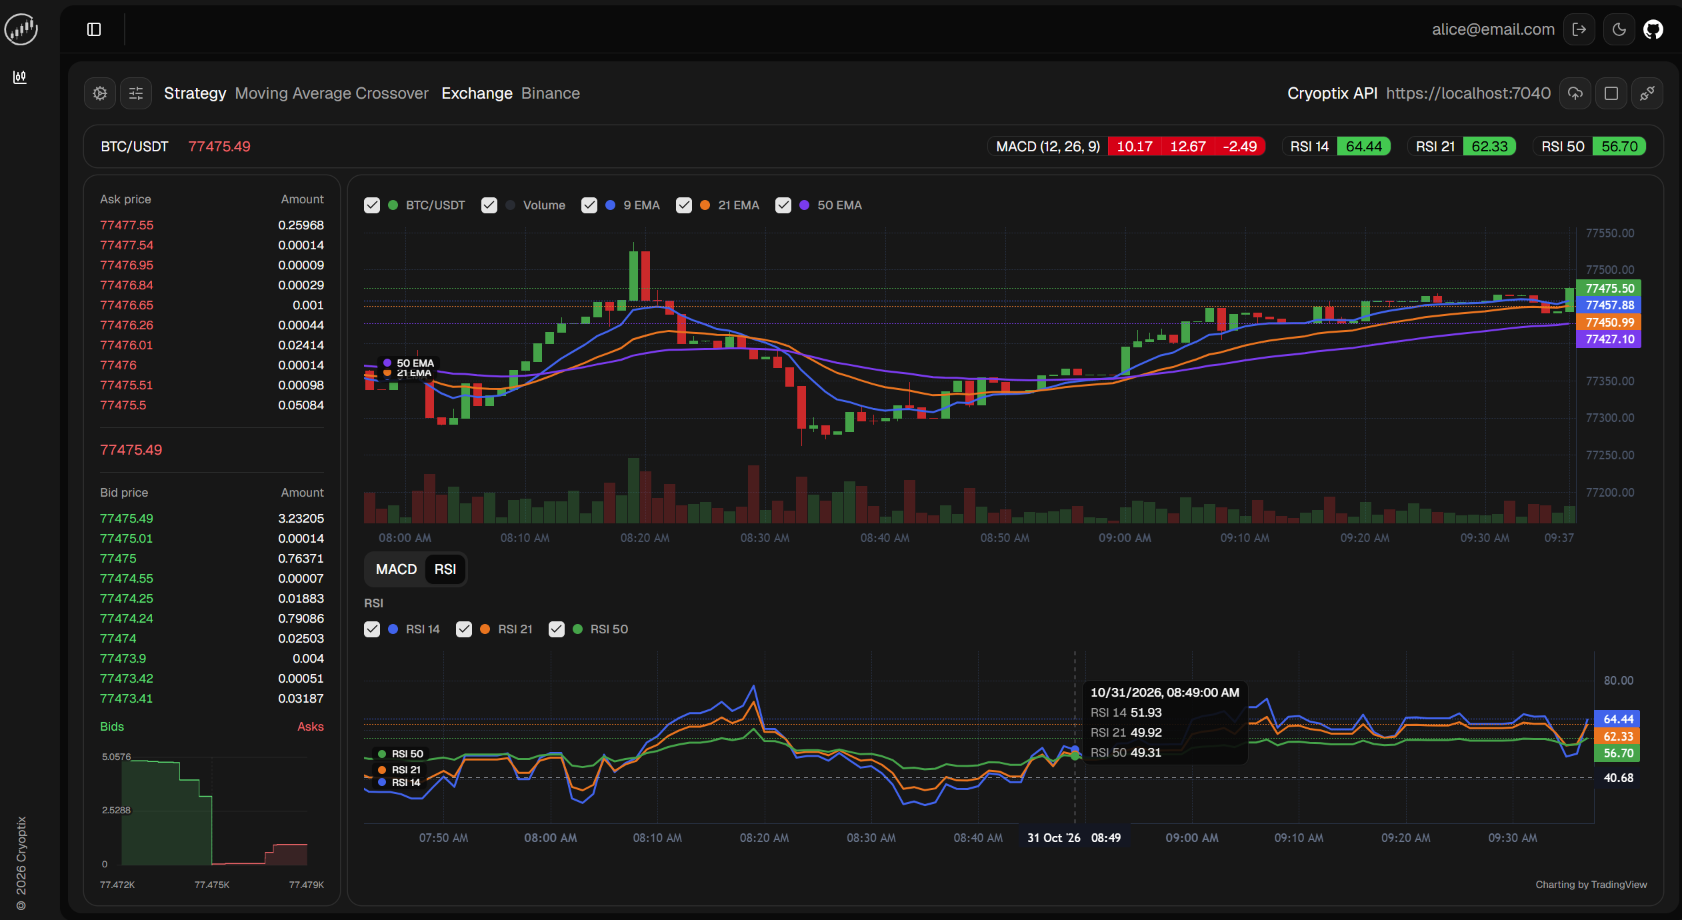
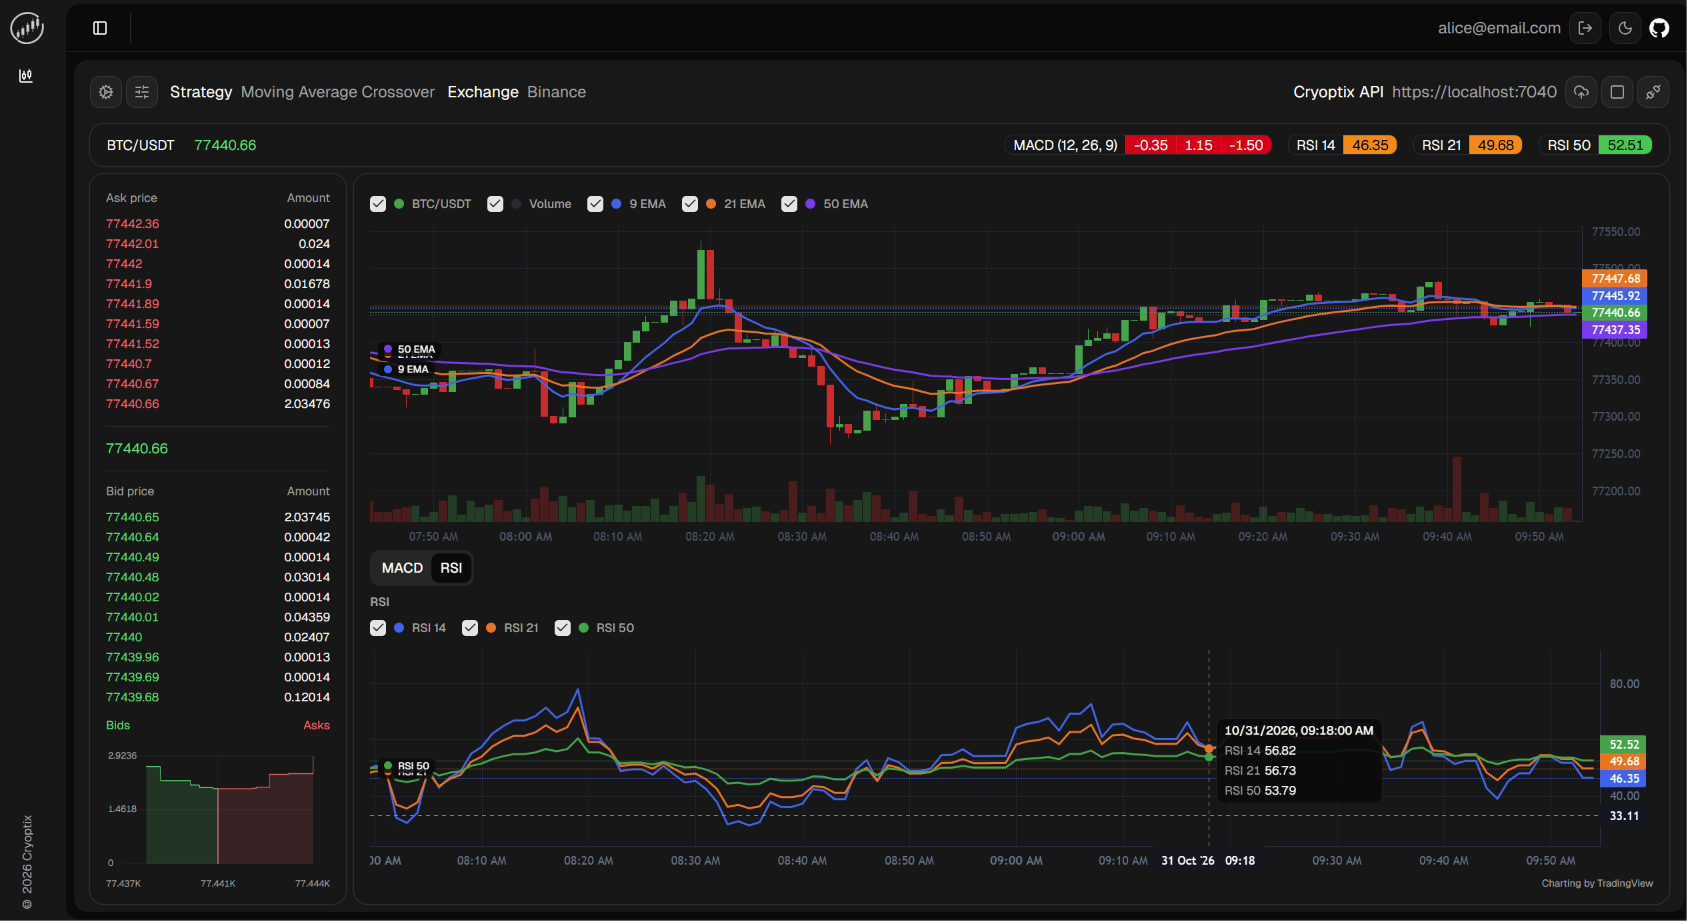
Update read-me images

diff --git a/src/gui/src/features/charts/rsi-chart.tsx b/src/gui/src/features/charts/rsi-chart.tsx
@@ -347,7 +347,7 @@ export function RsiChart({ indicators }: { indicators: Indicators[] }) {
   }, [points, rsiSeries]);
 
   return (
-    <section className="flex min-h-64 flex-col" aria-label="RSI chart">
+    <section className="flex min-h-64 flex-1 flex-col" aria-label="RSI chart">
       <h3 className="mb-1 text-xs font-semibold text-muted-foreground">RSI</h3>
       <div
         className="mb-2 flex min-h-7 flex-wrap items-center gap-x-4 gap-y-2"

diff --git a/src/gui/src/features/charts/macd-chart.tsx b/src/gui/src/features/charts/macd-chart.tsx
@@ -373,7 +373,7 @@ export function MacdChart({ indicators }: { indicators: Indicators[] }) {
   }, [points]);
 
   return (
-    <section className="flex min-h-64 flex-col" aria-label="MACD chart">
+    <section className="flex min-h-64 flex-1 flex-col" aria-label="MACD chart">
       <h3 className="mb-1 text-xs font-semibold text-muted-foreground">
         {points[0]?.name ?? "MACD"}
       </h3>
